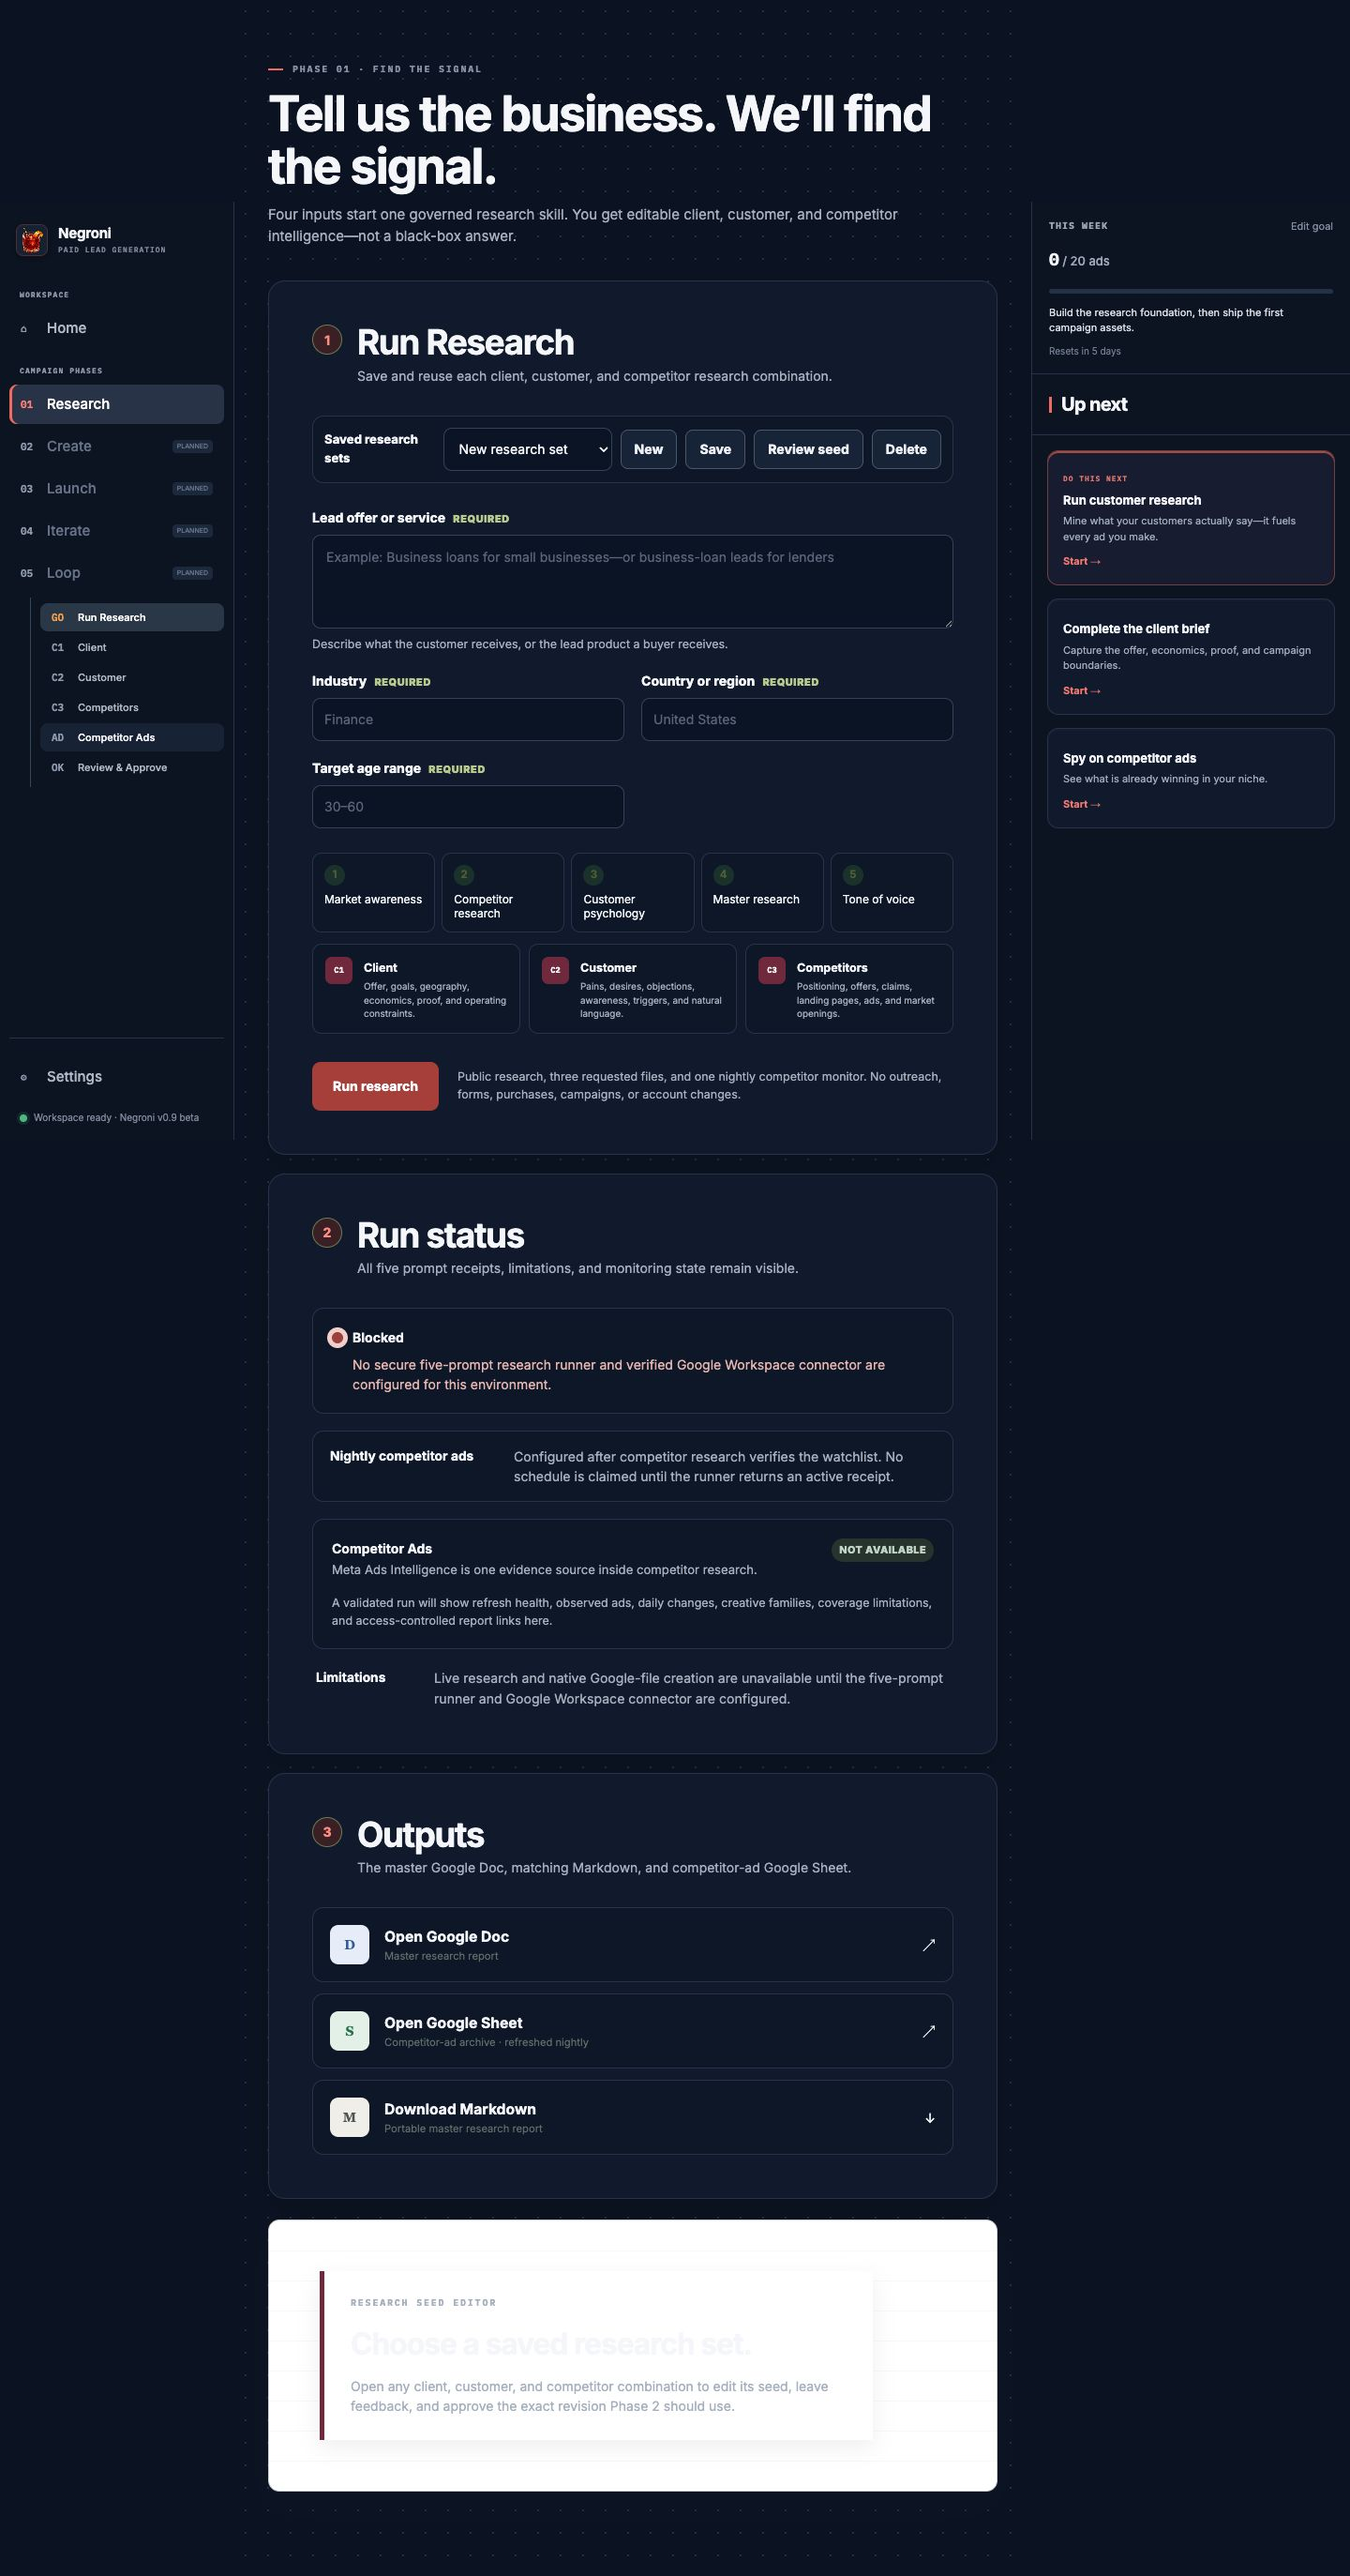
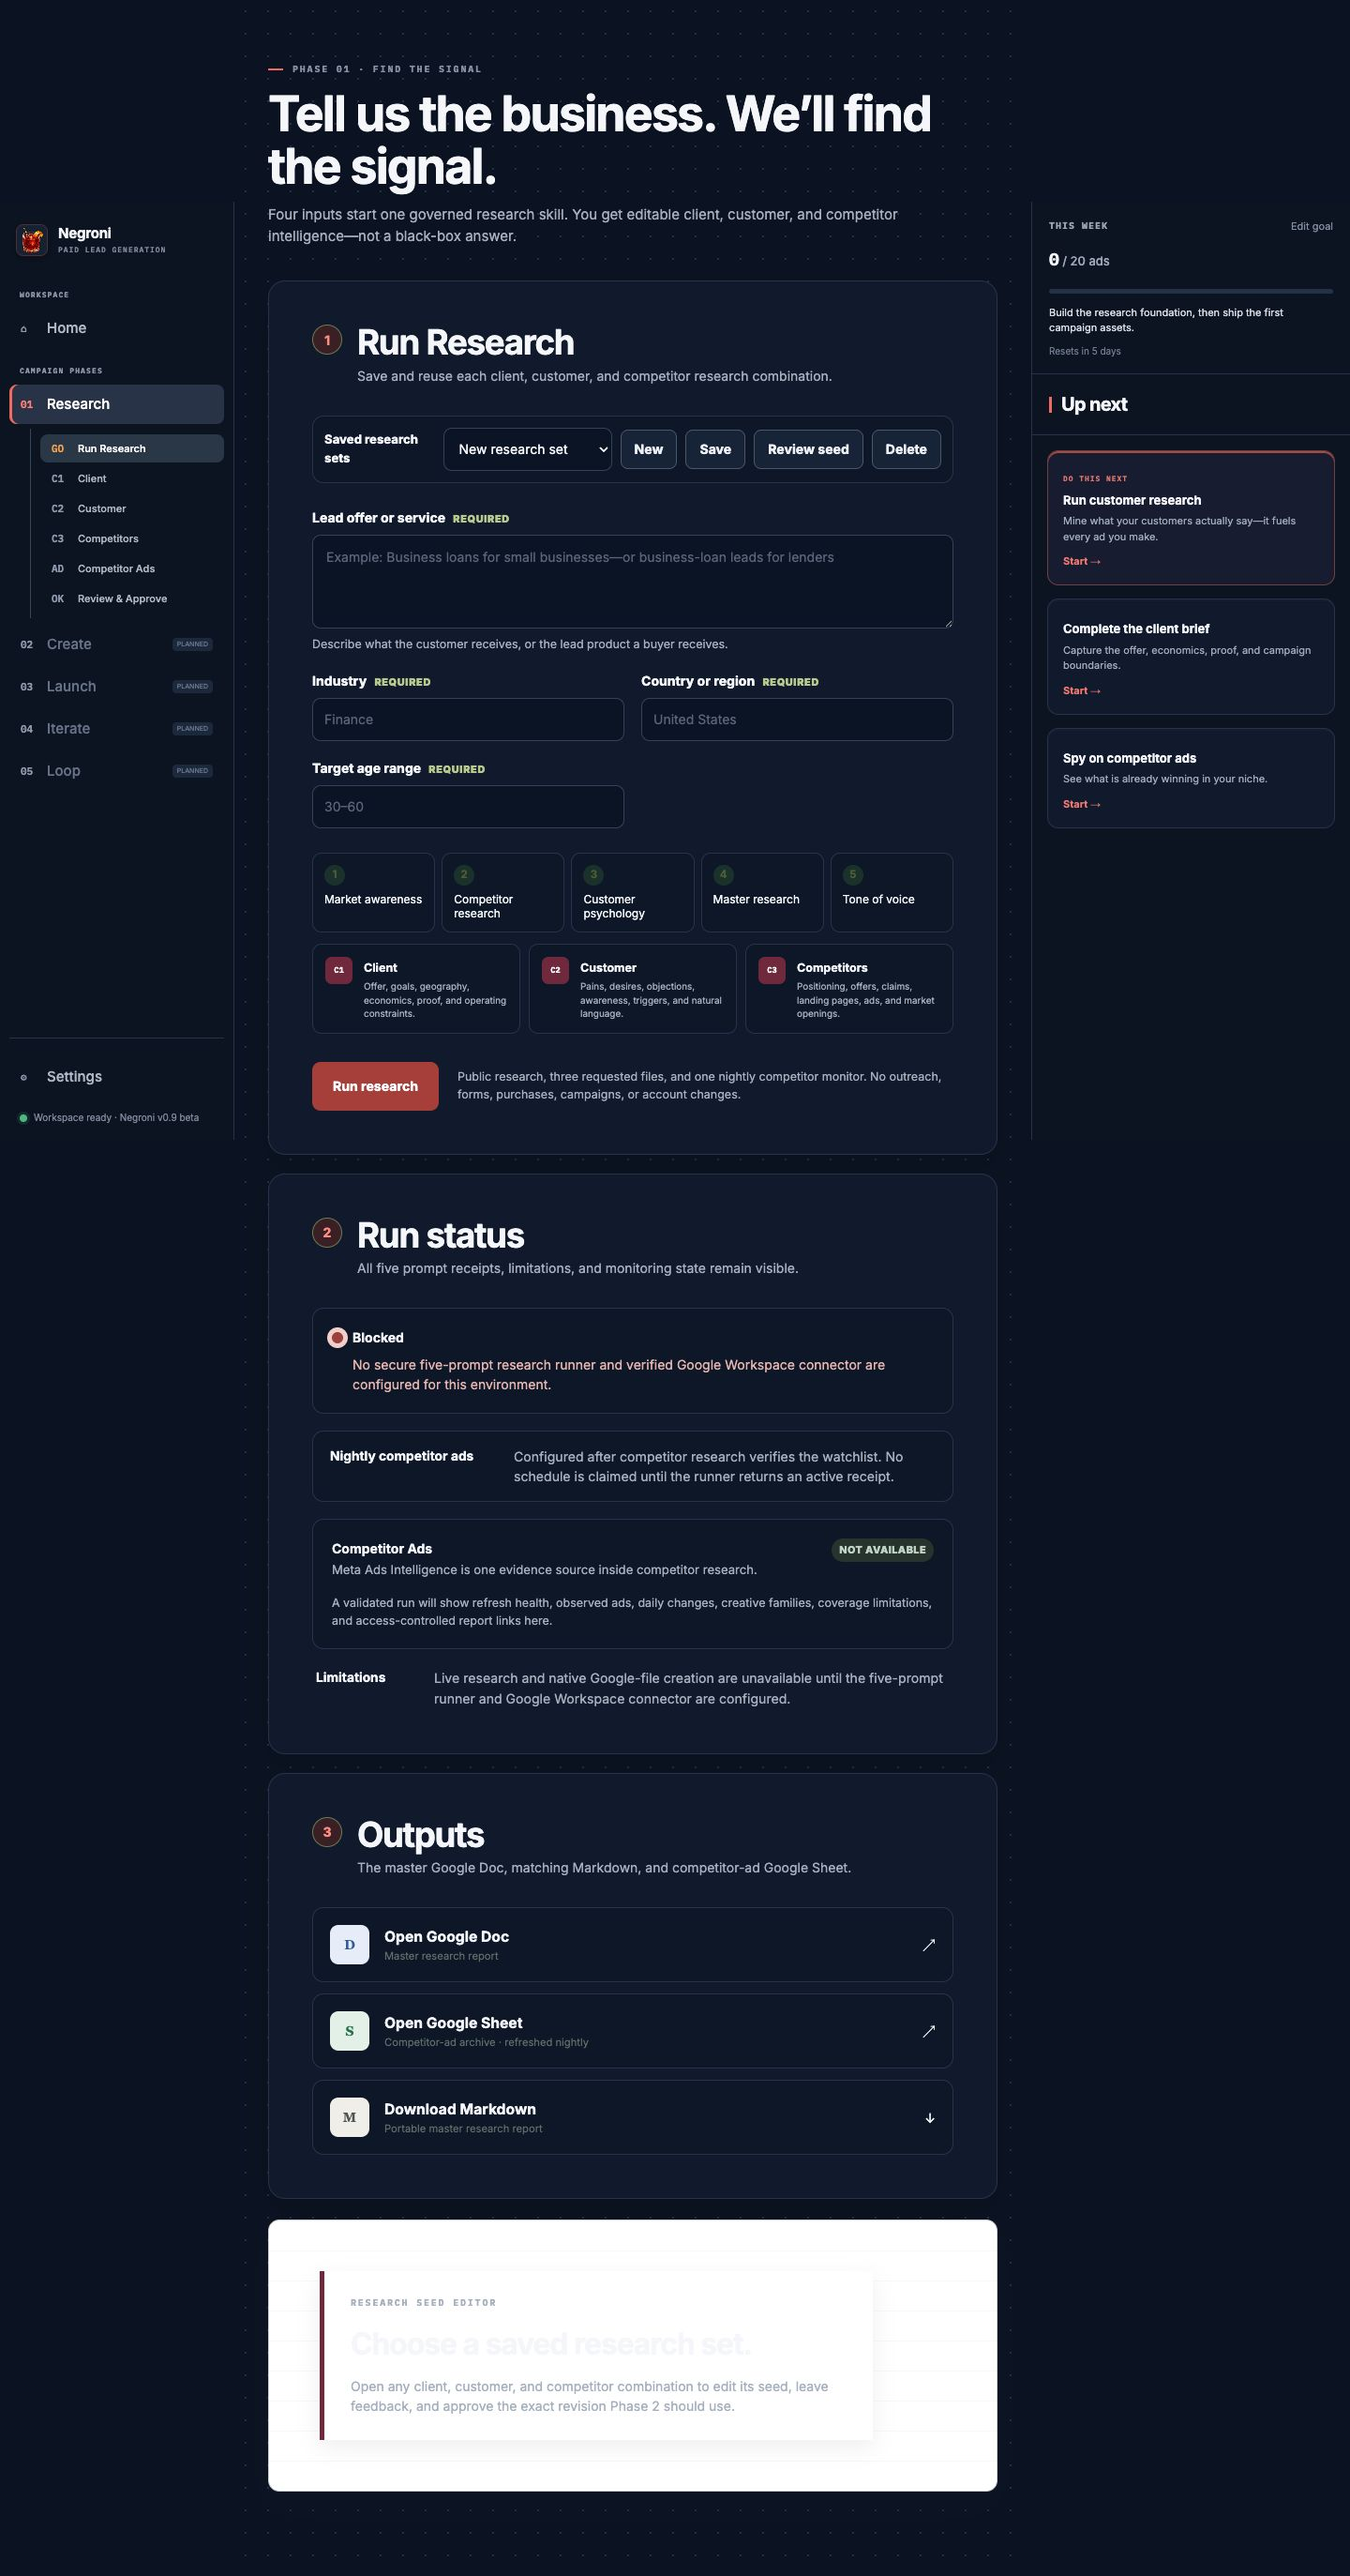
Nest Research tools under their phase

Changed region(s): [[0.0312, 0.1548, 0.1875, 0.3095]]

diff --git a/app/components/intelligence-client.tsx b/app/components/intelligence-client.tsx
@@ -1,6 +1,6 @@
 "use client";
 
-import { useEffect, useState } from "react";
+import { Fragment, useEffect, useState } from "react";
 import { createEmptyIntake } from "@/lib/intelligence/defaults";
 import { ResearchReview } from "@/components/research-review";
 import {
@@ -435,32 +435,33 @@ export function IntelligenceClient() {
           <button className={activeView === "home" ? "nav-active" : ""} type="button" onClick={() => navigate("home")}><span>⌂</span>Home</button>
           <span className="nav-label">Campaign phases</span>
           {PHASES.map((phase) => (
-            <button
-              className={phase.number === "01" && activeView === "research" ? "nav-active" : ""}
-              key={phase.number}
-              type="button"
-              disabled={phase.number !== "01"}
-              onClick={() => phase.number === "01" && navigate("research")}
-            >
-              <span>{phase.number}</span>{phase.name}{phase.number !== "01" ? <small>Planned</small> : null}
-            </button>
+            <Fragment key={phase.number}>
+              <button
+                className={phase.number === "01" && activeView === "research" ? "nav-active" : ""}
+                type="button"
+                disabled={phase.number !== "01"}
+                onClick={() => phase.number === "01" && navigate("research")}
+              >
+                <span>{phase.number}</span>{phase.name}{phase.number !== "01" ? <small>Planned</small> : null}
+              </button>
+              {phase.number === "01" && activeView === "research" ? (
+                <div className="research-subnav" aria-label="Research tools">
+                  {RESEARCH_TOOLS.map((tool) => (
+                    <button
+                      className={activeResearchSection === tool.id ? "research-subnav-active" : ""}
+                      key={tool.id}
+                      type="button"
+                      onClick={() => openResearchSection(tool.id)}
+                      aria-current={activeResearchSection === tool.id ? "page" : undefined}
+                      aria-label={tool.id === "run" ? "Open research intake" : `Open ${tool.name}`}
+                    >
+                      <span>{tool.marker}</span>{tool.name}
+                    </button>
+                  ))}
+                </div>
+              ) : null}
+            </Fragment>
           ))}
-          {activeView === "research" ? (
-            <div className="research-subnav" aria-label="Research tools">
-              {RESEARCH_TOOLS.map((tool) => (
-                <button
-                  className={activeResearchSection === tool.id ? "research-subnav-active" : ""}
-                  key={tool.id}
-                  type="button"
-                  onClick={() => openResearchSection(tool.id)}
-                  aria-current={activeResearchSection === tool.id ? "page" : undefined}
-                  aria-label={tool.id === "run" ? "Open research intake" : `Open ${tool.name}`}
-                >
-                  <span>{tool.marker}</span>{tool.name}
-                </button>
-              ))}
-            </div>
-          ) : null}
         </nav>
         <div className="sidebar-footer">
           <button className={`settings-nav ${activeView === "settings" ? "nav-active" : ""}`} type="button" onClick={() => navigate("settings")}><span>⚙</span>Settings</button>
